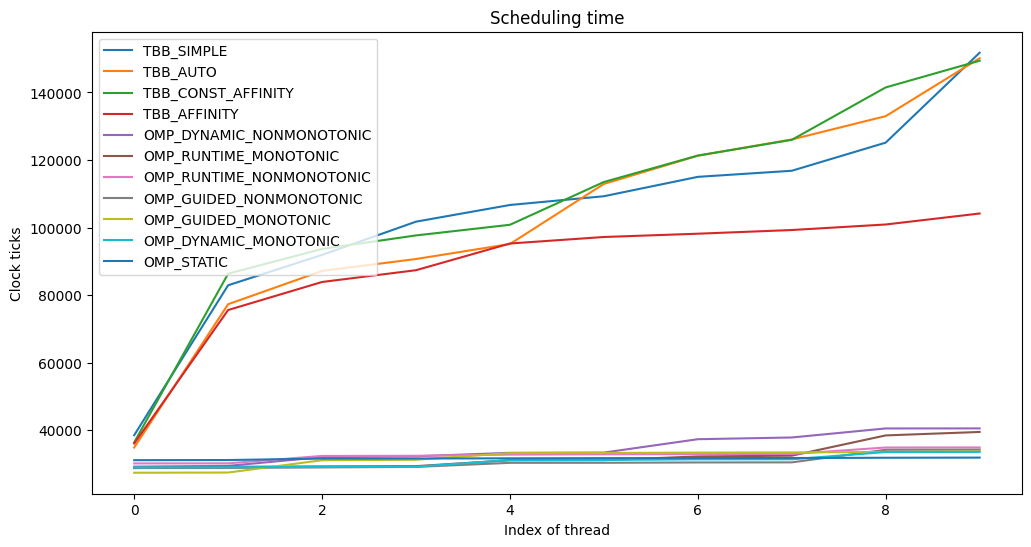
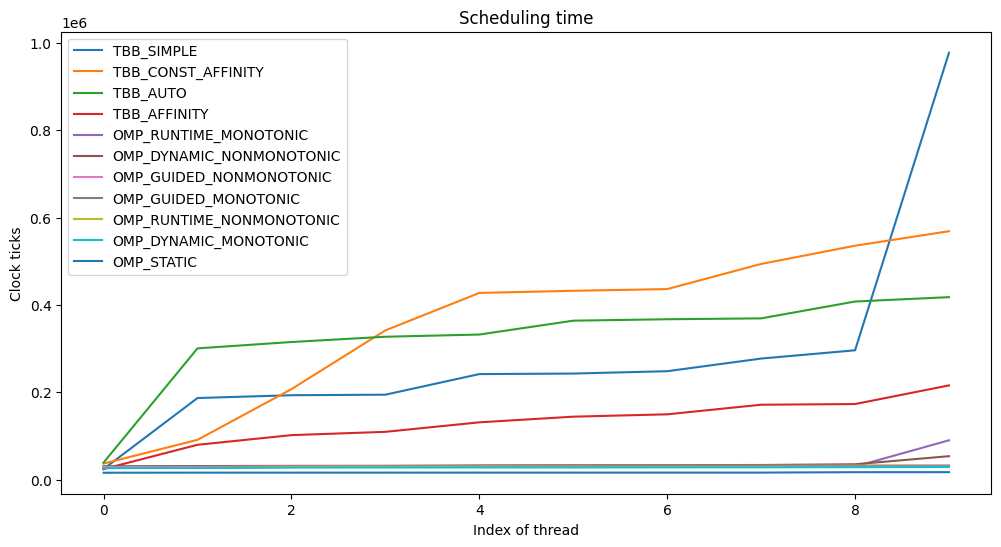
merge benchmarks

diff --git a/scheduling_dist/scheduling_dist.cpp b/scheduling_dist/scheduling_dist.cpp
@@ -17,19 +17,84 @@ struct ScheduledTask {
 };
 } // namespace
 
-static std::vector<ScheduledTask> RunOnce(size_t threadNum, size_t tasksNum) {
+static std::vector<ScheduledTask> RunWithBarrier(size_t threadNum) {
+  std::atomic<size_t> reported(0);
+  std::vector<ScheduledTask> results(threadNum);
+  auto start = Now();
+  ParallelFor(0, threadNum, [&](size_t i) {
+    results[i].Time = Now() - start;
+    results[i].Id = GetThreadIndex();
+    reported.fetch_add(1);
+    // it's ok to block here because we want
+    // to measure time of all threadNum threads
+    while (reported.load() != threadNum) {
+      // std::this_thread::sleep_for(std::chrono::milliseconds(1));
+      std::this_thread::yield();
+    }
+  });
+  return results;
+}
+
+static std::vector<ScheduledTask> RunWithSpin(size_t threadNum) {
+  std::vector<ScheduledTask> results(threadNum);
+  auto start = Now();
+  ParallelFor(0, threadNum, [&](size_t i) {
+    results[i].Time = Now() - start;
+    results[i].Id = GetThreadIndex();
+    // spin 1 seconds
+    auto spinStart = std::chrono::steady_clock::now();
+    while (std::chrono::steady_clock::now() - spinStart <
+           std::chrono::seconds(1)) {
+      std::this_thread::sleep_for(std::chrono::milliseconds(1));
+      // std::this_thread::yield();
+    }
+    // TODO: kmp block time here? maybe spin 1 second without sleep?
+  });
+  return results;
+}
+
+static std::vector<ScheduledTask> RunMultitask(size_t threadNum) {
+  auto tasksNum = threadNum * 100;
+  auto totalBenchTime = std::chrono::duration<double>(1);
+  auto sleepFor = totalBenchTime * threadNum / tasksNum;
   std::vector<ScheduledTask> results(tasksNum);
   auto start = Now();
   ParallelFor(0, tasksNum, [&](size_t i) {
     results[i].Time = Now() - start;
     results[i].Id = GetThreadIndex();
-    // spin 10ms without sleep
+    // sleep for emulating work
+    // std::this_thread::sleep_for(sleepFor);
     auto spinStart = std::chrono::steady_clock::now();
-    while (std::chrono::steady_clock::now() - spinStart <
-           std::chrono::milliseconds(10)) {
+    while (std::chrono::steady_clock::now() - spinStart < sleepFor) {
+      // std::this_thread::sleep_for(std::chrono::milliseconds(1));
+      std::this_thread::yield();
     }
   });
   return results;
+}
+
+static std::vector<ScheduledTask> RunOnce(size_t threadNum) {
+#ifdef __x86_64__
+  asm volatile("mfence" ::: "memory");
+#endif
+#ifdef __aarch64__
+  asm volatile(
+      "DMB SY \n" /* Data Memory Barrier. Full runtime operation. */
+      "DSB SY \n" /* Data Synchronization Barrier. Full runtime operation. */
+      "ISB    \n" /* Instruction Synchronization Barrier. */
+      ::
+          : "memory");
+#endif
+
+#if SCHEDULING_MEASURE_MODE == BARRIER
+  return RunWithBarrier(threadNum);
+#endif
+#if SCHEDULING_MEASURE_MODE == SLEEP
+  return RunWithSpin(threadNum);
+#endif
+#if SCHEDULING_MEASURE_MODE == MULTITASK
+  return RunMultitask(threadNum);
+#endif
 }
 
 static void

diff --git a/benchplot.py b/benchplot.py
@@ -61,11 +61,16 @@ def parse_benchmarks(folder_name):
 def plot_scheduling_benchmarks(scheduling_times):
     # x for thread_idx, y for time
     fig, ax = plt.subplots(1, 1, figsize=(12, 6))
-    for bench_type, times in reversed(sorted(scheduling_times.items(),
+    min_times = [(bench_type, [[min([t["time"] for t in times]) for times in iter.values()] for iter in results]) for bench_type, results in scheduling_times.items()]
+    # print(list(scheduling_times.items())[0][1][0])
+    # items = [(bench_type, [[t["time"] for t in iter.values()] for iter in tasks]) for bench_type, tasks in scheduling_times.items()]
+    for bench_type, times in reversed(sorted(min_times,
                                  key=lambda x: np.max(np.mean(np.asarray(x[1]), axis=0)))):
         # mean time per thread for each idx in range of thread count
         times = np.asarray(times)
         means = np.mean(times, axis=0)
+        # sort means array
+        means = np.sort(means, axis=0)
         stds = np.std(times, axis=0)
         print(bench_type, means, stds)
         # TODO: plot stds
@@ -83,8 +88,7 @@ def plot_scheduling_dist(scheduling_dist):
     fig = plt.figure(figsize=(10, 15))
     fig.suptitle("Scheduling distribution")
     fig.tight_layout()
-    gs = GridSpec(row_count, 1, figure=fig)
-
+    gs = GridSpec(row_count, 2, figure=fig)
 
     for iter in range(row_count):
         ax = fig.add_subplot(gs[iter, 0])
@@ -97,10 +101,12 @@ def plot_scheduling_dist(scheduling_dist):
         data = np.ones((thread_count, task_count))
         total = 0
         for _, tasks in sorted(scheduling_dist[iter].items(), key=lambda x: x[0]):
-            for scheduled_task in tasks:
-                data[total, scheduled_task["index"]] = 0
+            max_time = max(t["time"] for t in tasks)
+            for t in tasks:
+                data[total, t["index"]] = 1 - t["time"] / max_time
             total += 1
         ax.imshow(data, cmap='gray', origin='lower')
+
     return fig
 
 
@@ -122,7 +128,7 @@ if __name__ == "__main__":
     # plot with and without barrier
     # group scheduling_times by suffix
     scheduling_times_by_suffix = {}
-    for bench_mode, res in benchmarks["bench_scheduling"].items():
+    for bench_mode, res in benchmarks["scheduling_dist"].items():
         bench_mode, measure_mode = bench_mode.rsplit("_", 1)
         if measure_mode not in scheduling_times_by_suffix:
             scheduling_times_by_suffix[measure_mode] = {}
